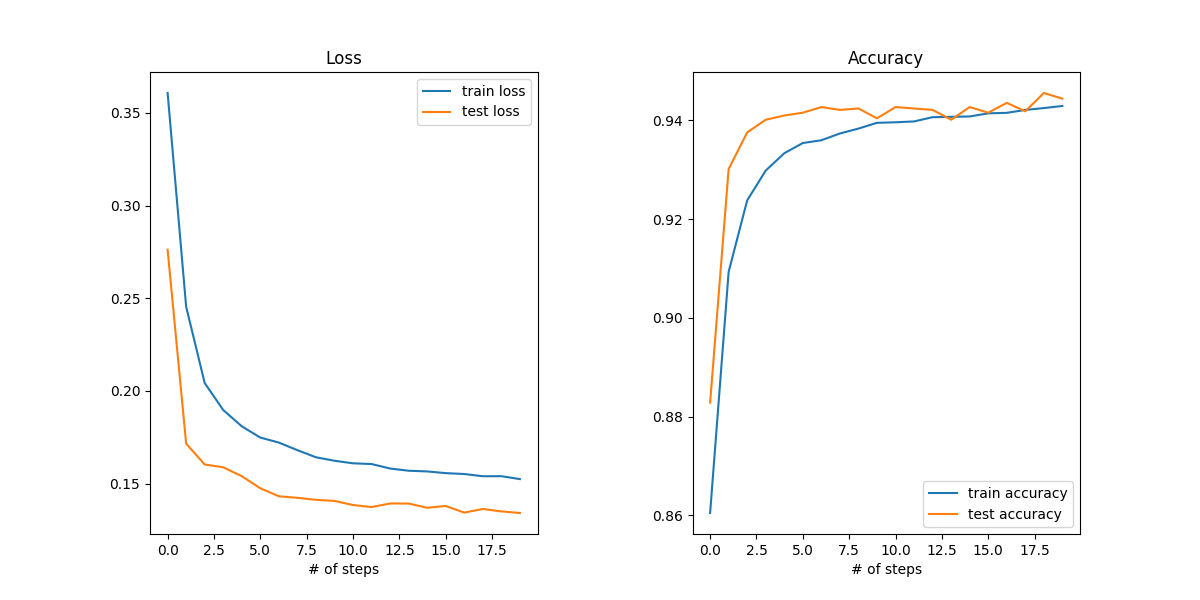
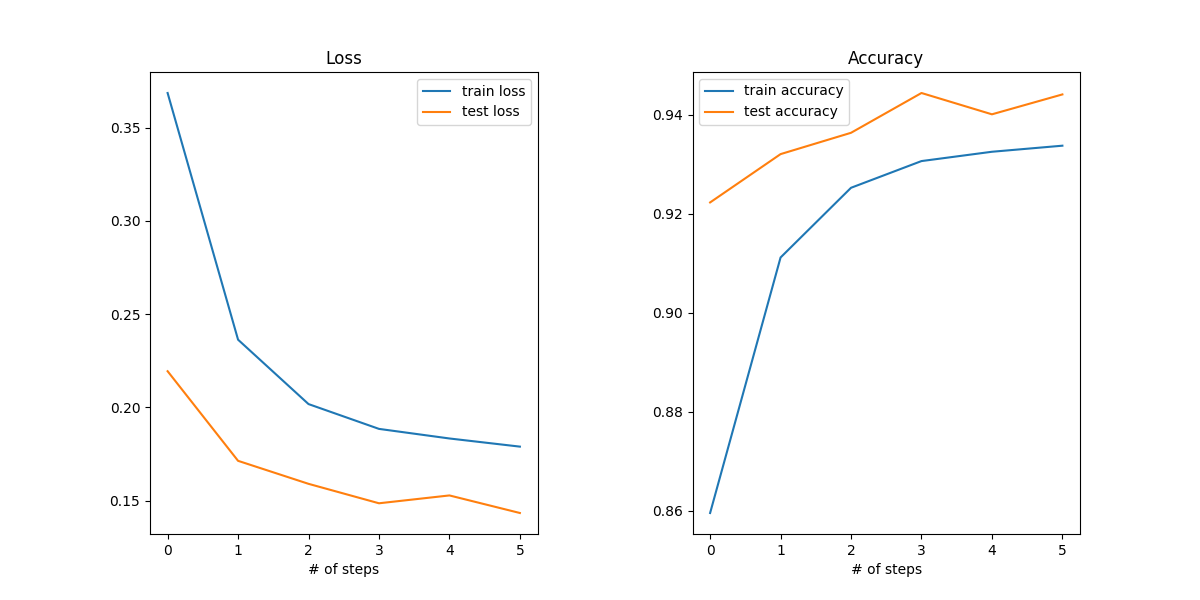
adding new features into the model and adding callbacks

diff --git a/pkugoodspeed/src/models.py b/pkugoodspeed/src/models.py
@@ -2,6 +2,7 @@
 Constructing keras models
 '''
 ## Math and dataFrame
+import os
 import numpy as np
 import pandas as pd
 import plot
@@ -15,7 +16,7 @@ from sklearn.preprocessing import LabelBinarizer
 ## Keras
 from keras.models import Model, Sequential
 from keras.optimizers import SGD, Adam
-from keras.callbacks import LearningRateScheduler, Callback
+from keras.callbacks import LearningRateScheduler, Callback, EarlyStopping, ModelCheckpoint
 from keras.layers import Embedding, Flatten, Conv1D, Conv2D, GRU, LSTM, SimpleRNN, MaxPooling1D
 from keras.layers import Input, Dropout, Dense, BatchNormalization, Activation, concatenate
 from keras.layers import GlobalMaxPooling1D, GlobalAveragePooling1D, AveragePooling1D
@@ -117,8 +118,12 @@ class KerasModel:
             self._buildParaModel(**kargs)
         return self._model
 
-    def train(self, train_x, train_y, valid_x, valid_y, optimizer='sgd', learning_rate=0.02, 
+    def train(self, train, valid, target_list, optimizer='sgd', learning_rate=0.02, 
     decay_rate=0.85, epochs=36, adaptive_step=2, loss='binary_crossentropy', metrics=None):
+        train_x = np.array(train.input.tolist())
+        valid_x = np.array(valid.input.tolist())
+        train_y = train[target_list].values
+        valid_y = valid[target_list].values
         global global_learning_rate
         global global_decay_rate
         global_learning_rate = learning_rate
@@ -134,13 +139,117 @@ class KerasModel:
             return global_learning_rate
         change_lr = LearningRateScheduler(scheduler)
 
+        earlystopper = EarlyStopping(patience=5, verbose=1)
+        if not os.path.exists('./checkpoints'):
+            os.system('mkdir checkpoints')
+        checkpointer = ModelCheckpoint(filepath='./checkpoints/weights.h5', verbose=1, save_best_only=True)
+
         ## Compile the model
         self._model.compile(optimizer=optmap[optimizer](learning_rate), loss=loss, metrics=metrics)
         
         self._history = self._model.fit(train_x, train_y, batch_size=128, epochs=epochs,
-        verbose=1, validation_data=(valid_x, valid_y), callbacks=[change_lr])
+        verbose=1, validation_data=(valid_x, valid_y), callbacks=[earlystopper, checkpointer, change_lr])
+        self._model.load_weights("./checkpoints/weights.h5")
         return self._history
     
     def plot(self, filename='convergence.png'):
         '''Plot the convergence behavior'''
         plot.plotResult(self._history, filename=filename)
+
+    def make_predict(self, test, target_list):
+        test_x = np.array(test.input.tolist())
+        for target in target_list:
+            test[target] = [0]*len(test)
+        test[target_list] = self._model.predict(test_x, batch_size=128)
+        return test
+
+
+    def getCombinedModel(self, layer_list, max_features=20000, emb_size=100, 
+    emb_weights=None, bidirect=False, kw_dims=[64, 256, 32], kp_dim=[64, 256, 32]):
+        '''Building a sequential model'''
+        input_layer = Input(shape=self._input_shape, name='input')
+        tmp = input_layer
+        if emb_weights is None:
+            tmp = Embedding(max_features, emb_size) (tmp)
+        else:
+            tmp = Embedding(max_features, emb_size, weights=[emb_weights]) (tmp)
+        for layer in layer_list:
+            assert layer['name'] in layermap, "Layer {0} does not exist, you can invent one :)".format(layer['name'])
+            if bidirect and layer['name'] in ['lstm', 'gru']:
+                tmp = Bidirectional(layermap[layer['name']](*layer['args'], **layer['kargs'])) (tmp)
+            else:
+                tmp = layermap[layer['name']](*layer['args'], **layer['kargs']) (tmp)
+        ## Adding keywords and keyphrases vectorized features
+        assert len(kw_dims) > 1 and len(kp_dim) > 1, "Should have at least one hidden layer for key vectors"
+        keyword_layer = Input(shape=[kw_dims[0]], name='keywords')
+        kw = keyword_layer
+        for neuron in kw_dims[1:]:
+            kw = Dropout(0.3) (Dense(neuron, activation='sigmoid') (kw))
+        
+        keyphra_layer = Input(shape=[kp_dim[0]], name='keyphrases')
+        kp = keyphra_layer
+        for neuron in kp_dim[1:]:
+            kp = Dropout(0.3) (Dense(neuron, activation='sigmoid') (kp))
+        
+        main_layer = concatenate([tmp, kw, kp])
+        main_layer = Dropout(0.5) (Dense(128, activation='relu') (main_layer))
+        output_layer = Dense(self._output_dim, activation='sigmoid') (main_layer)
+        print "Finish loading layers."
+        self._model = Model([input_layer, keyword_layer, keyphra_layer], output_layer)
+        return self._model
+    
+    def trainCombinedModel(self, train, valid, target_list, optimizer='sgd', learning_rate=0.02, 
+    decay_rate=0.85, epochs=36, adaptive_step=2, loss='binary_crossentropy', metrics=None):
+        train_x = {
+            'input': np.array(train.input.tolist()),
+            'keywords': np.array(train.keyword_vec.tolist()),
+            'keyphrases': np.array(train.keyphra_vec.tolist())
+        }
+        print train_x['input'].shape
+        print train_x['keywords'].shape
+        print train_x['keyphrases'].shape
+        valid_x = {
+            'input': np.array(valid.input.tolist()),
+            'keywords': np.array(valid.keyword_vec.tolist()),
+            'keyphrases': np.array(valid.keyphra_vec.tolist())
+        }
+        train_y = train[target_list].values
+        valid_y = valid[target_list].values
+        global global_learning_rate
+        global global_decay_rate
+        global_learning_rate = learning_rate
+        global_decay_rate = decay_rate
+        assert optimizer in optmap, "Wrong optimizer name"
+        ## Using adaptive decaying learning rate
+        def scheduler(epoch):
+            global global_learning_rate
+            global global_decay_rate
+            if epoch%adaptive_step == 0:
+                global_learning_rate *= global_decay_rate
+                print("CURRENT LEARNING RATE = " + str(global_learning_rate))
+            return global_learning_rate
+        change_lr = LearningRateScheduler(scheduler)
+        earlystopper = EarlyStopping(patience=5, verbose=1)
+        if not os.path.exists('./checkpoints'):
+            os.system('mkdir checkpoints')
+        checkpointer = ModelCheckpoint(filepath='./checkpoints/weights.h5', verbose=1, save_best_only=True)
+
+        ## Compile the model
+        self._model.compile(optimizer=optmap[optimizer](learning_rate), loss=loss, metrics=metrics)
+        
+        self._history = self._model.fit(train_x, train_y, batch_size=128, epochs=epochs,
+        verbose=1, validation_data=(valid_x, valid_y), callbacks=[earlystopper, checkpointer, change_lr])
+        self._model.load_weights("./checkpoints/weights.h5")
+        return self._history
+
+    def predictCombinedModel(self, test, target_list):
+        test_x = {
+            'input': np.array(test.input.tolist()),
+            'keywords': np.array(test.keyword_vec.tolist()),
+            'keyphrases': np.array(test.keyphra_vec.tolist())
+        }
+        for target in target_list:
+            test[target] = [0]*len(test)
+        test[target_list] = self._model.predict(test_x, batch_size=128)
+        return test
+        

diff --git a/pkugoodspeed/src/main2.py b/pkugoodspeed/src/main2.py
@@ -7,6 +7,7 @@ from models import KerasModel
 import opts_parser
 import preprocess
 from embedding import *
+import key
 
 if __name__ == '__main__':
     train_data_file, test_data_file, config_file = opts_parser.getopts()
@@ -28,6 +29,12 @@ if __name__ == '__main__':
     }, **cfg["preprc_kargs"])
     
     target_list = preprc_kargs['target_list']
+    assert len(target_list) == 1, "Here we forcused to train on one target"
+    ## Getting keyword features:
+    train = key.get_key_word_features(train, label=target_list[0], vec_size=128)
+    train = key.get_key_phrase_features(train, label=target_list[0], vec_size=128)
+    test = key.get_key_word_features(test, label=target_list[0], vec_size=128)
+    test = key.get_key_phrase_features(test, label=target_list[0], vec_size=128)
     train, valid, test, embedding_matrix = preprocess.embProcess(train, test, **preprc_kargs)
 
     keras_model = KerasModel(input_shape=[preprc_kargs['padlength']], output_dim=len(target_list))
@@ -35,16 +42,19 @@ if __name__ == '__main__':
     kargs = dict({
         "max_features": cfg["max_features"],
         "emb_size": cfg["emb_size"],
-        "emb_weights": embedding_matrix
+        "emb_weights": embedding_matrix,
+        "kw_dims": [128, 256, 32],
+        "kp_dim": [128, 256, 32]
     }, **cfg["model_kargs"]["kargs"])
-    model = keras_model.getModel(model_type, **kargs)
+    # model = keras_model.getModel(model_type, **kargs)
+    model = keras_model.getCombinedModel(**kargs)
     model.summary()
-    history = keras_model.train(train, valid, target_list, **cfg["train_kargs"])
+    history = keras_model.trainCombinedModel(train, valid, target_list, **cfg["train_kargs"])
     
     output_file="{0}_{1}_convergence.png".format(cfg['model_name'], '.'.join(cfg["preprc_kargs"]["target_list"]))
     keras_model.plot(cfg['output_dir'] + '/' + output_file)
 
-    test = keras_model.make_predict(test, target_list)
+    test = keras_model.predictCombinedModel(test, target_list)
 
     test = test[['id'] + target_list]
     sub_file = "{0}_sum.csv".format(cfg['model_name'])

diff --git a/pkugoodspeed/src/key.py b/pkugoodspeed/src/key.py
@@ -1,5 +1,6 @@
 import numpy as np
 import pandas as pd
+import time
 
 ref = "1234567890qwertyuiopasdfghjklzxcvbnm "
 def _process(sent):
@@ -26,17 +27,30 @@ def _get_keyphrase(label, filepath="../data/keywords"):
     return key_phrases
 
 
-def get_key_word_features(df, label, keypath="../data/keywords"):
+def get_key_word_features(df, label, vec_size=128, keypath="../data/keywords"):
     print("Building Key Word Embedding Feature ...")
-    key_words = _get_keywords(label=label, filepath=keypath)
-    keyword_vec = np.zeros((len(df), len(key_words)))
-    for i in range(len(df)):
-        for j in range(len(key_words)):
-            if key_words[j] in df.comment_text.values[i]:
-                keyword_vec[i][j] = 1.
+    start_time = time.time()
+    key_words = _get_keywords(label=label, filepath=keypath)[: vec_size]
+    print("Got key_words!")
+    keyword_vec = []
+    for sentence in df.comment_text.values:
+        keyword_vec.append([int(w in sentence) for w in key_words])
     df['keyword_vec'] = keyword_vec
+    print("Time for extracting key word feature: " + str(time.time() - start_time) + " sec")
     return df
-                
+
+
+def get_key_phrase_features(df, label, vec_size=128, keypath="../data/keywords"):
+    print("Building Key Phrase Embedding Feature ...")
+    start_time = time.time()
+    key_phrases = _get_keyphrase(label=label, filepath=keypath)[: vec_size]
+    print("Got key_phrases!")
+    keyphra_vec = []
+    for sentence in df.comment_text.values:
+        keyphra_vec.append([int(w in sentence) for w in key_phrases])
+    df['keyphra_vec'] = keyphra_vec
+    print("Time for extracting key phrase feature: ", str(time.time() - start_time), " sec")
+    return df          
     
 
 
@@ -49,6 +63,7 @@ def _test():
     print kp[:10]
     df = pd.read_csv('../data/train_processed.csv')
     df = get_key_word_features(df, label='toxic')
+    df = get_key_phrase_features(df, label='toxic')
     print df[:3]
 
 

diff --git a/pkugoodspeed/src/preprocess.py b/pkugoodspeed/src/preprocess.py
@@ -35,10 +35,8 @@ def embProcess(train_df, test_df, target_list=['toxic'], split_ratio=0.7, expand
     train, valid = train_test_split(train_df, train_size=split_ratio)
     train = _makeBalance(train, target_list, expand_ratio)
     valid = _makeBalance(valid, target_list, expand_ratio)
-    train_x = pad_sequences(train.seq, maxlen=padlength)
-    valid_x = pad_sequences(valid.seq, maxlen=padlength)
-    train_y = train[target_list].values
-    valid_y = valid[target_list].values
+    train['input'] = list(pad_sequences(train.seq, maxlen=padlength))
+    valid['input'] = list(pad_sequences(valid.seq, maxlen=padlength))
     test_df['input'] = list(pad_sequences(test_df.seq, maxlen=padlength))
     
     ### Build embedding matrix
@@ -55,4 +53,4 @@ def embProcess(train_df, test_df, target_list=['toxic'], split_ratio=0.7, expand
             embedding_vector = embedding_index.get(word)
             if embedding_vector is not None: 
                 embedding_matrix[i] = embedding_vector
-    return train_x, train_y, valid_x, valid_y, test_df[['id','input']], embedding_matrix
+    return train, valid, test_df, embedding_matrix
